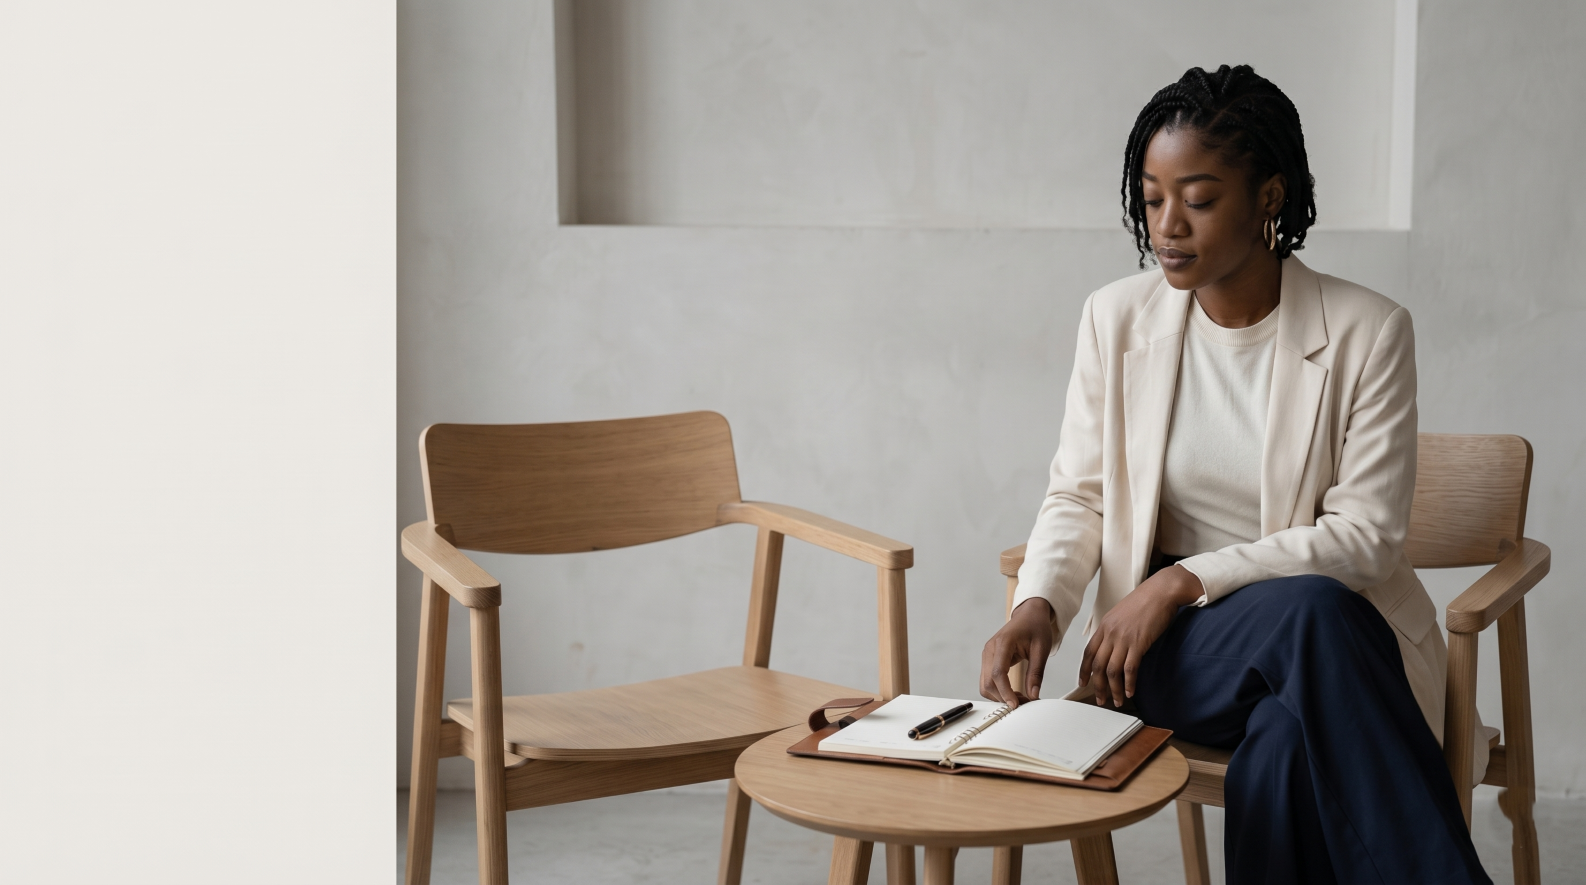
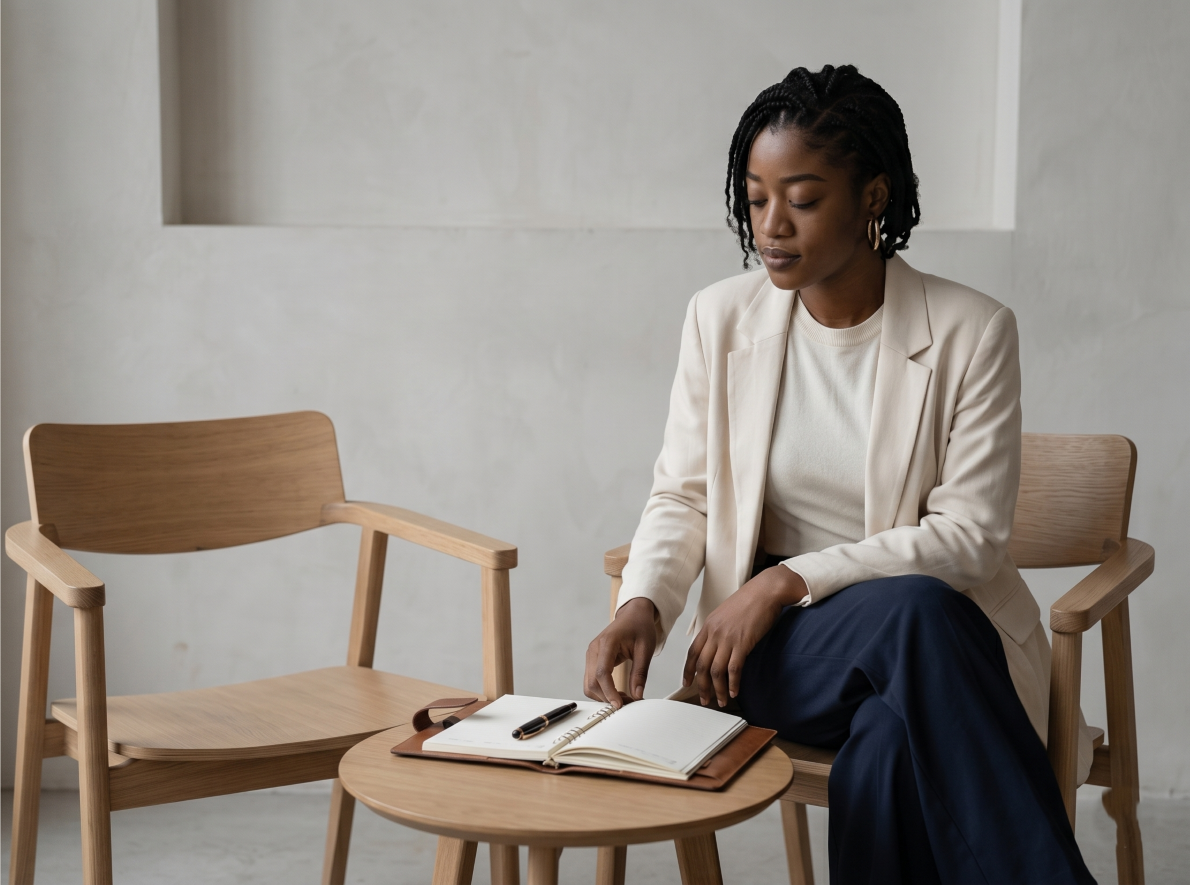
images: crop philosophy/credibility, replace contact, align approach image

diff --git a/components/Philosophy.tsx b/components/Philosophy.tsx
@@ -57,7 +57,7 @@ export function Philosophy() {
                 src="/images/philosophy.png"
                 alt="Amuche at a desk, focused and composed — the quiet discipline behind the practice"
                 fill
-                className="object-cover object-center"
+                className="object-cover object-left"
                 sizes="420px"
                 quality={85}
               />